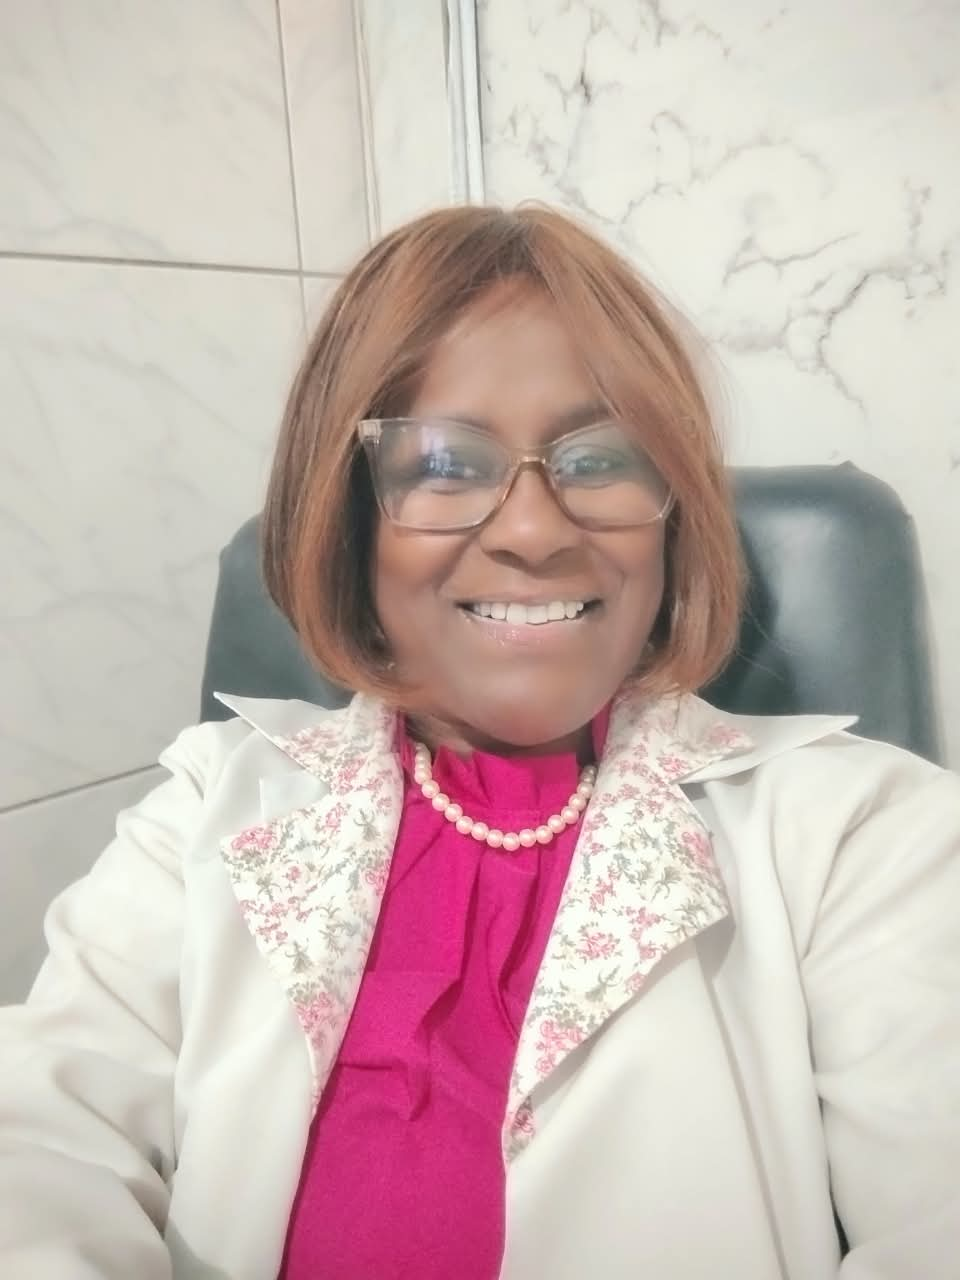
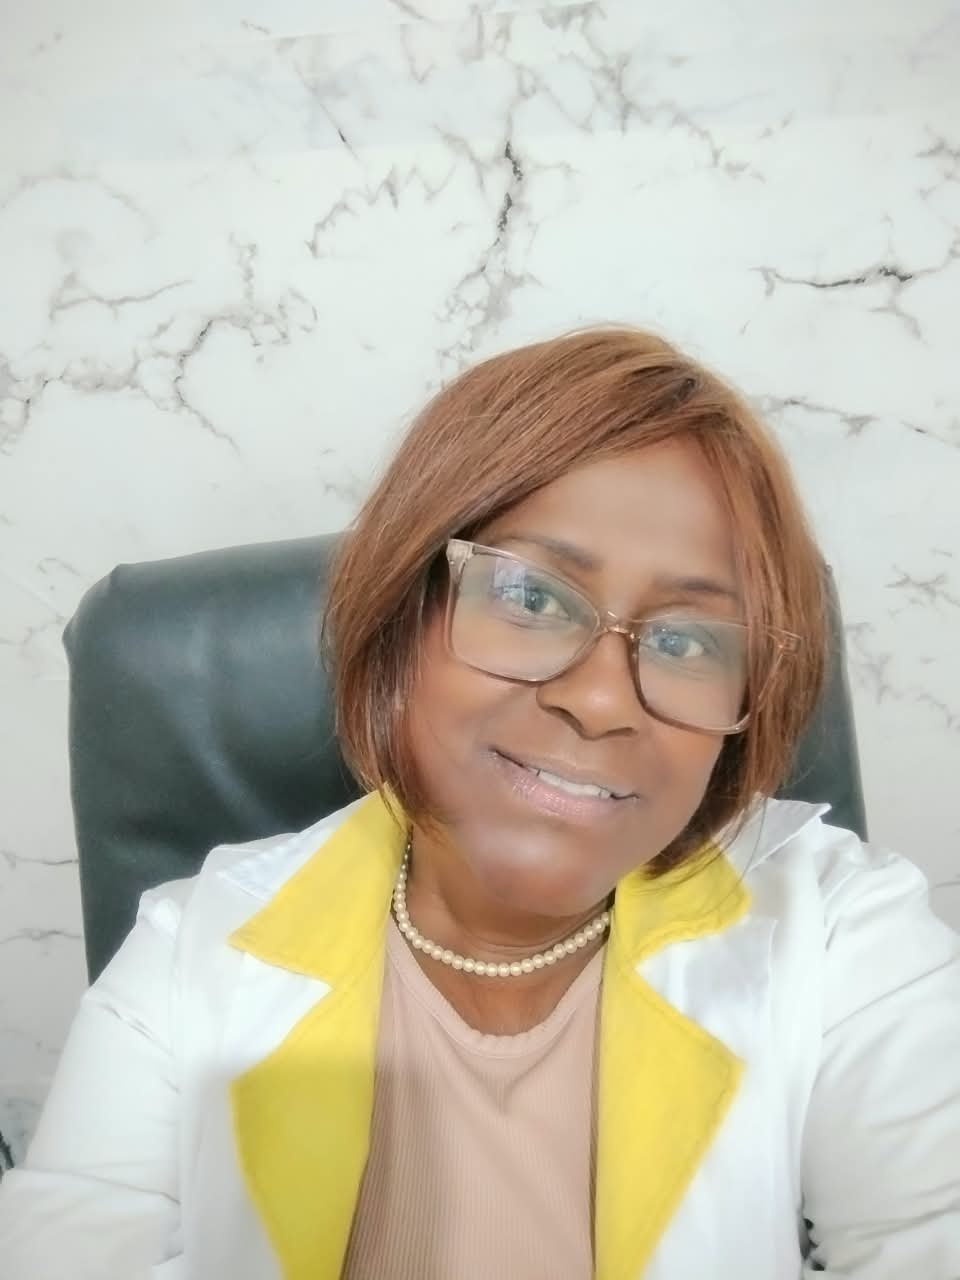
fix: substituir fotos de baixa qualidade por versões profissionais
- sueli-hero.jpg: foto 0050 (Sueli no consultório, jaleco branco, sorriso amplo, ambiente profissional)
- sueli-sobre.jpg: foto 0058 (Sueli no consultório, jaleco branco + blusa amarela, fundo marmorizado)
- sueli-ig.jpg: foto 0050 (card Instagram com a melhor foto disponível)
- Ajustado object-position no CSS para enquadrar o rosto corretamente nas novas fotos

diff --git a/css/style.css b/css/style.css
@@ -668,7 +668,7 @@ a { color: inherit; }
   width: 100%;
   height: 100%;
   object-fit: cover;
-  object-position: center 18%;
+  object-position: center 35%;
   filter: contrast(1.05) saturate(1.05);
 }
 
@@ -1231,7 +1231,7 @@ a { color: inherit; }
   width: 100%;
   height: 100%;
   object-fit: cover;
-  object-position: center 22%;
+  object-position: center 30%;
   filter: contrast(1.05) saturate(1.05);
 }
 
@@ -1614,7 +1614,7 @@ a { color: inherit; }
   width: 100%;
   height: 100%;
   object-fit: cover;
-  object-position: center 42%;
+  object-position: center 30%;
   transition: transform 1.2s var(--ease);
 }
 
